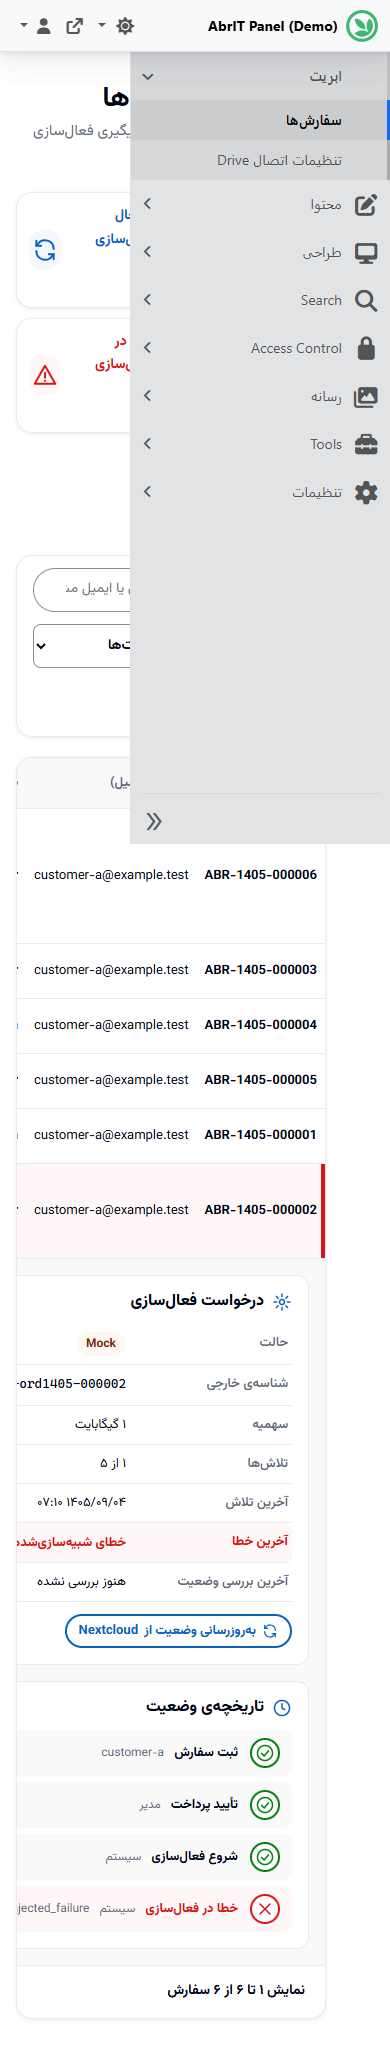
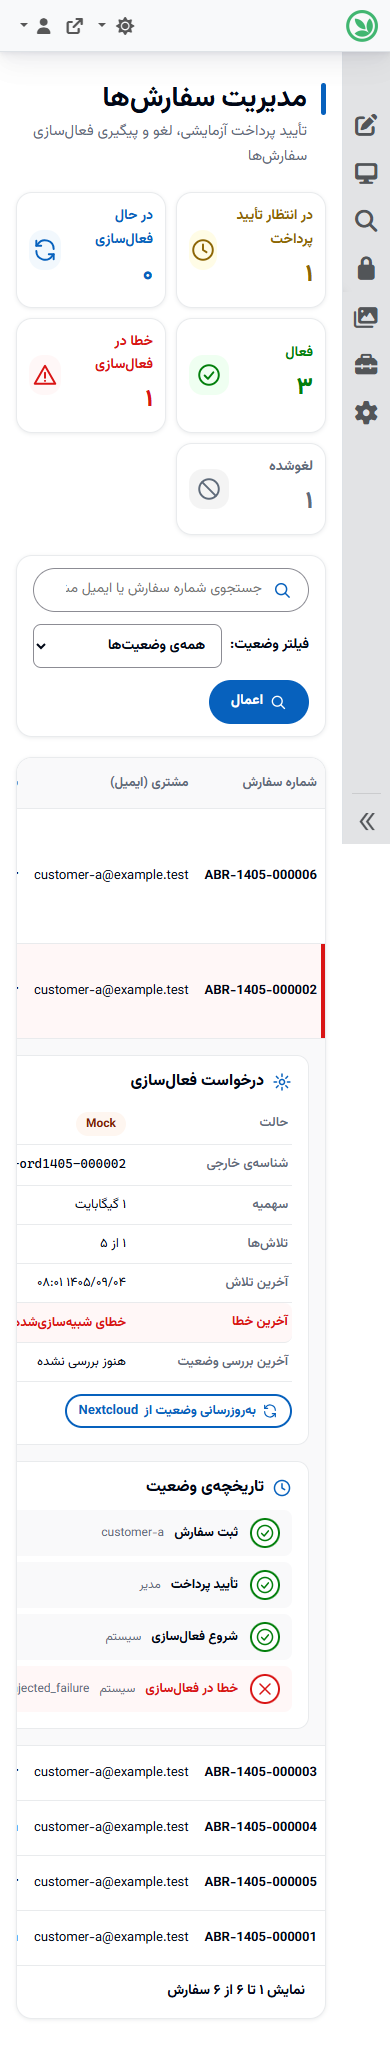
fix(ui): mobile admin tables, drawer, order numbers, honest mock guide
- Order numbers never wrap; service/plan text wraps; status badge gets its own
  row on mobile order cards (orders list + dashboard)
- Mock guide: no set-password e-mail is sent in Mock (Real text unchanged)
- Admin tables scroll inside their card at 390px; .sr-only labels no longer
  escape the scroller; settings rows stack label above value on phones
- Closed mobile drawer is off-canvas, hidden and inert; it animates only on
  user open/close (no slide-in on resize)
- Retaken: e3-orders-list-mobile, e2-dashboard-mobile, e3-order-active-*,
  e3-order-team-*, e3-admin-orders-mobile, e3-admin-settings-mobile,
  e3-cancel-confirm-mobile

diff --git a/src/AbrIT.Theme/wwwroot/css/theme.css b/src/AbrIT.Theme/wwwroot/css/theme.css
@@ -434,8 +434,11 @@ body.abr-noscroll{overflow:hidden}
 /* ---- Phone ---- */
 @media (max-width: 640px){
   .abr-shell{display:block;background:none}
-  .abr-side{position:fixed;inset-block:0;inset-inline-start:0;width:min(300px,86vw);height:100dvh;z-index:var(--abr-z-dialog);transform:translateX(100%);visibility:hidden;transition:transform var(--abr-dur-slow) var(--abr-ease),visibility 0s linear var(--abr-dur-slow);box-shadow:var(--abr-shadow-3)}
-  .abr-side.is-open{transform:none;visibility:visible;transition:transform var(--abr-dur-slow) var(--abr-ease),visibility 0s}
+  .abr-side{position:fixed;inset-block:0;inset-inline-start:0;width:min(300px,86vw);height:100dvh;z-index:var(--abr-z-dialog);transform:translateX(100%);visibility:hidden;transition:none;box-shadow:none}
+  /* animate only while the user opens/closes it (theme.js adds --anim), never on resize or page load */
+  .abr-side.abr-side--anim{transition:transform var(--abr-dur-slow) var(--abr-ease),visibility 0s linear var(--abr-dur-slow)}
+  .abr-side.is-open{transform:none;visibility:visible;box-shadow:var(--abr-shadow-3)}
+  .abr-side.abr-side--anim.is-open{transition:transform var(--abr-dur-slow) var(--abr-ease),visibility 0s}
   .abr-side__close{display:grid}
   .abr-side__head{height:64px}
   .abr-backdrop{display:block;position:fixed;inset:0;background:rgba(0,7,22,.45);z-index:calc(var(--abr-z-dialog) - 1)}
@@ -571,7 +574,10 @@ body.abr-noscroll{overflow:hidden}
 .abr-quick .abr-ico{color:var(--abr-primary)}
 .abr-orders th{white-space:nowrap}
 .abr-orders td{font-size:15px}
-.abr-orders__no a{font-weight:700}
+.abr-orders__no a{font-weight:700;white-space:nowrap}
+.abr-orders__no bdi{white-space:nowrap;direction:ltr}
+.abr-orders__plan{white-space:normal;overflow-wrap:anywhere}
+.abr-crumb bdi{white-space:nowrap}
 .abr-orders td.actions{text-align:end}
 .abr-emptystate{flex-direction:row;align-items:center;gap:40px;padding:36px 48px}
 .abr-emptystate img{width:340px;max-width:40%;height:auto;flex:none}
@@ -635,9 +641,10 @@ body.abr-noscroll{overflow:hidden}
   .abr-svclist__more{grid-area:more}
   .abr-svclist__more span{display:none}
   .abr-app .abr-orders td::before{display:none}
-  .abr-app .abr-orders tr{display:grid;grid-template-columns:minmax(0,1fr) auto;grid-template-areas:"no amount" "plan date" "plan status";gap:4px 16px;padding:14px 16px;border-radius:14px;margin-bottom:12px;background:var(--abr-surface)}
+  .abr-app .abr-orders tr{display:grid;grid-template-columns:auto minmax(0,1fr);grid-template-areas:"no amount" "plan date" "status status";gap:4px 16px;padding:14px 16px;border-radius:14px;margin-bottom:12px;background:var(--abr-surface)}
   .abr-app .abr-orders td{display:flex;align-items:center;gap:8px;padding:0;width:auto;justify-content:flex-start}
-  .abr-orders__no{grid-area:no;font-size:16px}
+  .abr-orders__no{grid-area:no;font-size:15px}
+  .abr-app .abr-orders td.abr-orders__amount,.abr-app .abr-orders td.abr-orders__date{justify-content:flex-end}
   .abr-orders__plan{grid-area:plan;color:var(--abr-text-2);align-self:start}
   .abr-orders__amount{grid-area:amount;font-weight:700}
   .abr-orders__date{grid-area:date}

diff --git a/src/AbrIT.Theme/wwwroot/js/theme.js b/src/AbrIT.Theme/wwwroot/js/theme.js
@@ -10,9 +10,19 @@
     var lastFocus = null;
     var isOpen = function () { return side.classList.contains('is-open'); };
     var focusables = function () { return side.querySelectorAll('a[href], button:not([disabled])'); };
+    var phone = window.matchMedia('(max-width: 640px)');
+    // Closed drawer on phones: off-canvas, hidden and inert (no focus, no clicks, not announced).
+    var syncInert = function () { side.inert = phone.matches && !isOpen(); };
+    var animate = function () {
+      side.classList.add('abr-side--anim');
+      window.setTimeout(function () { side.classList.remove('abr-side--anim'); }, 600);
+    };
+    syncInert();
     var open = function () {
       lastFocus = document.activeElement;
+      animate();
       side.classList.add('is-open');
+      syncInert();
       backdrop.hidden = false;
       burger.setAttribute('aria-expanded', 'true');
       document.body.classList.add('abr-noscroll');
@@ -21,7 +31,9 @@
     };
     var close = function () {
       if (!isOpen()) { return; }
+      animate();
       side.classList.remove('is-open');
+      syncInert();
       backdrop.hidden = true;
       burger.setAttribute('aria-expanded', 'false');
       document.body.classList.remove('abr-noscroll');
@@ -39,7 +51,7 @@
       else if (!e.shiftKey && document.activeElement === last) { e.preventDefault(); first.focus(); }
     });
     var desktop = window.matchMedia('(min-width: 641px)');
-    if (desktop.addEventListener) { desktop.addEventListener('change', function (m) { if (m.matches) { close(); } }); }
+    if (desktop.addEventListener) { desktop.addEventListener('change', function (m) { if (m.matches) { close(); } syncInert(); }); }
   }
 
   // ---- Password show/hide ----

diff --git a/src/AbrIT.Panel.Module/wwwroot/css/admin.css b/src/AbrIT.Panel.Module/wwwroot/css/admin.css
@@ -190,6 +190,12 @@
   .abr-astat__icon{width:40px;height:40px}
   .abr-admin__filter{width:100%}
   .abr-admin__filter select{flex:1;min-width:0}
-  .abr-settings__rows>div{grid-template-columns:minmax(0,1fr)}
+  /* phones: label above value, one block per setting */
+  .abr-settings__rows>div{grid-template-columns:minmax(0,1fr);min-height:0;padding:10px 14px;gap:4px}
+  .abr-settings__rows dt{background:none;padding:0;font-size:12px;font-weight:700;color:var(--abr-text-2)}
+  .abr-settings__rows dd{padding:0;min-height:28px}
+  .abr-settings__rows dd .abr-mono{overflow-wrap:anywhere}
+  .abr-admin__card{padding:16px}
+  .abr-cardhead h2{font-size:18px}
   .abr-modebar__note{border:0;padding:0}
 }
